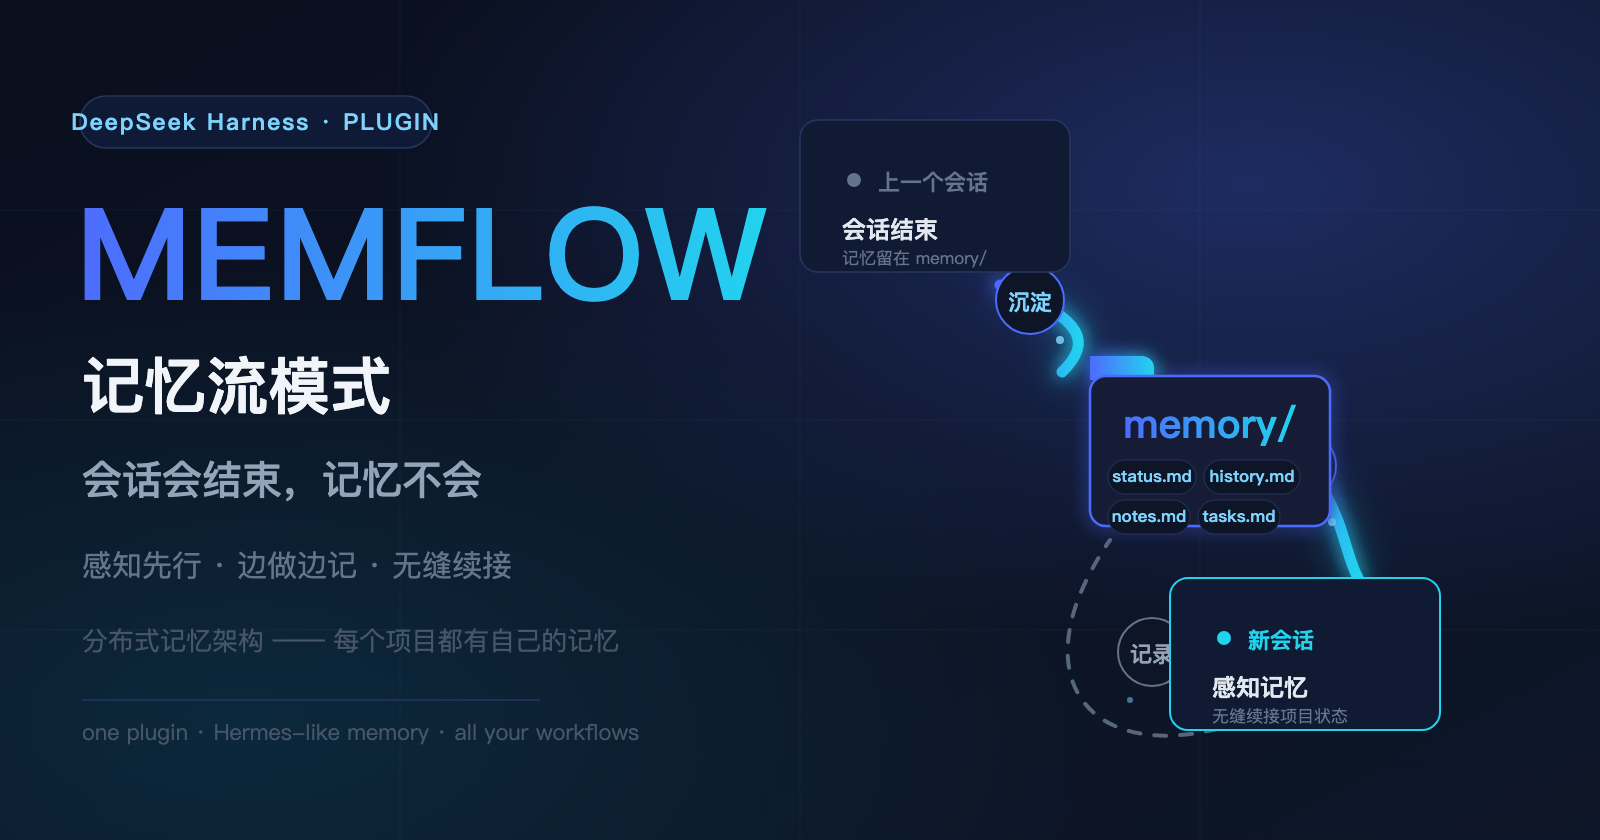
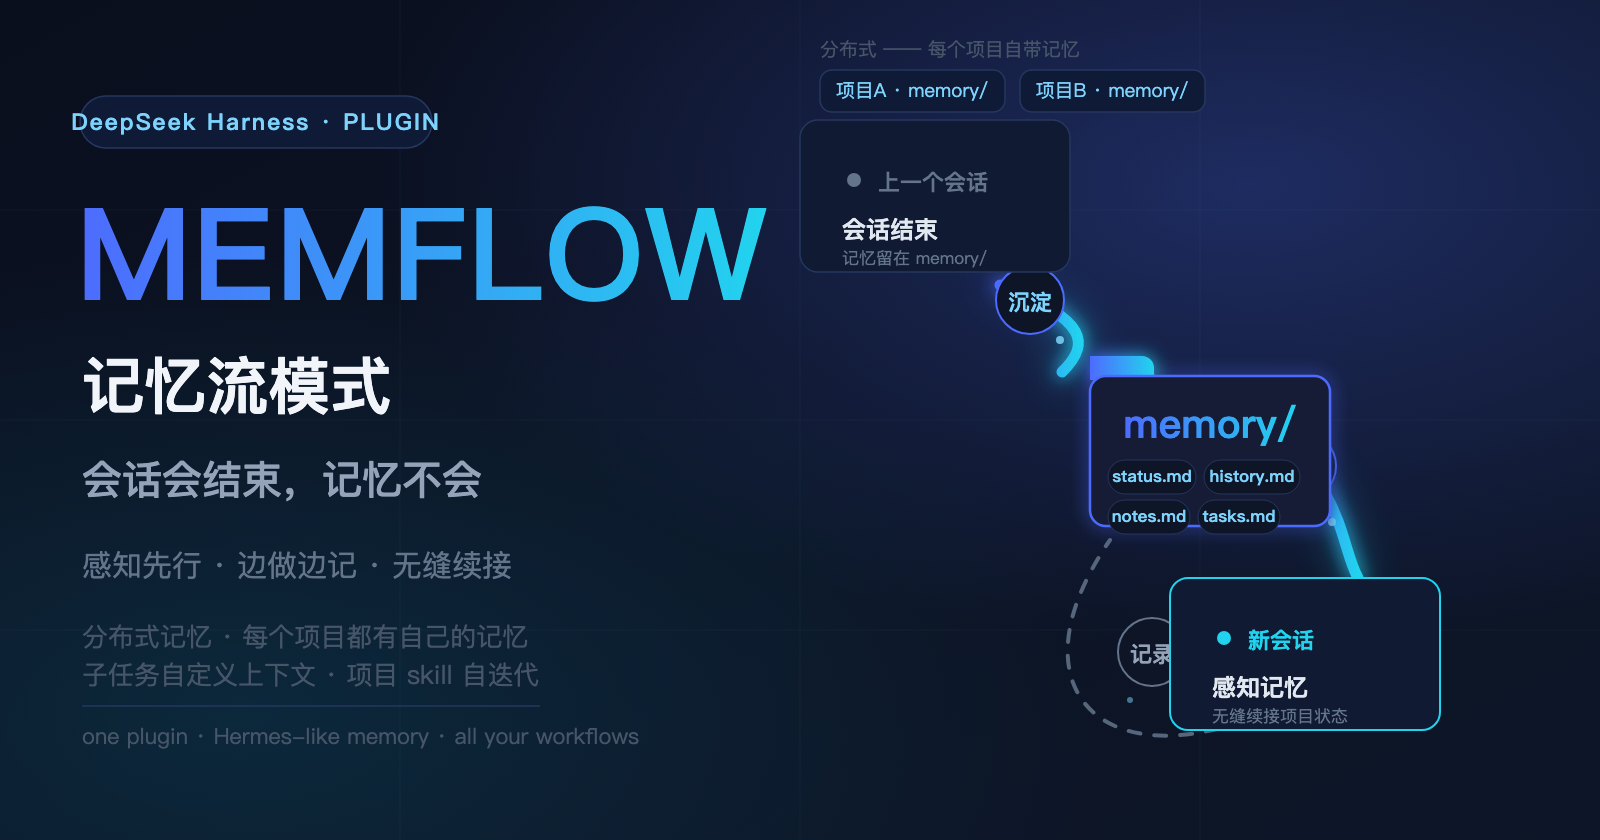
dsh-memflow: About v4 (per-subtask context + self-iterating skills) + camo cache bust
- tools/dsh-memflow: banner distributed pills + taglines, flow bricks/
  self-iteration + per-subtask context wording, README headline + ?v=3 img
- Brick: v4 description, camo image-cache discipline, og:description verify

diff --git a/README.md b/README.md
@@ -1,5 +1,5 @@
 <p align="center">
-  <img src="docs/banner.png" alt="MEMFLOW 记忆流模式 — DeepSeek Harness 记忆框架插件" width="100%">
+  <img src="docs/banner.png?v=3" alt="MEMFLOW 记忆流模式 — DeepSeek Harness 记忆框架插件" width="100%">
 </p>
 
 # dsh-memflow
@@ -7,7 +7,8 @@
 > **MEMFLOW 记忆流模式** —— DeepSeek Harness 的记忆框架插件。
 >
 > **会话会结束，记忆不会**：感知先行、边做边记、无缝续接。
-> **分布式记忆架构，每个项目都有自己的记忆，一个插件让你的所有工作流实现类 Hermes 效果。**
+> **分布式记忆架构**：每个项目都有自己的记忆，子任务自定义记忆上下文，项目 skill 自迭代。
+> **一个插件让你的所有工作流实现类 Hermes 效果。**
 
 [English](#english) · [协议全文](MEMFLOW.md) · [License](LICENSE)
 
@@ -22,7 +23,7 @@ MEMFLOW 是 [DeepSeek Harness (dsh)](https://github.com/deepseek-ai/deepseek-har
 因此每个工作目录（项目）都拥有自己的 `memory/` 持久记忆：会话开始时**机械加载**当前目录的记忆快照、工作中**边做边记**——该记就记：任务完成、状态变化、关键决策、踩坑经验**触发即写**，没有固定的收尾落盘流程。任何新会话只要打开同一目录，就能完整恢复现状。所有项目的记忆各自独立、互不干扰——这就是分布式记忆架构。
 
 <p align="center">
-  <img src="docs/flow.png" alt="MEMFLOW 模式循环：新会话 → 感知 → 工作 → 落盘 → 新会话" width="92%">
+  <img src="docs/flow.png?v=3" alt="MEMFLOW 模式循环：新会话 → 感知 → 工作 → 会话结束 → 新会话" width="92%">
 </p>
 
 **一个协议、三个载具**：
